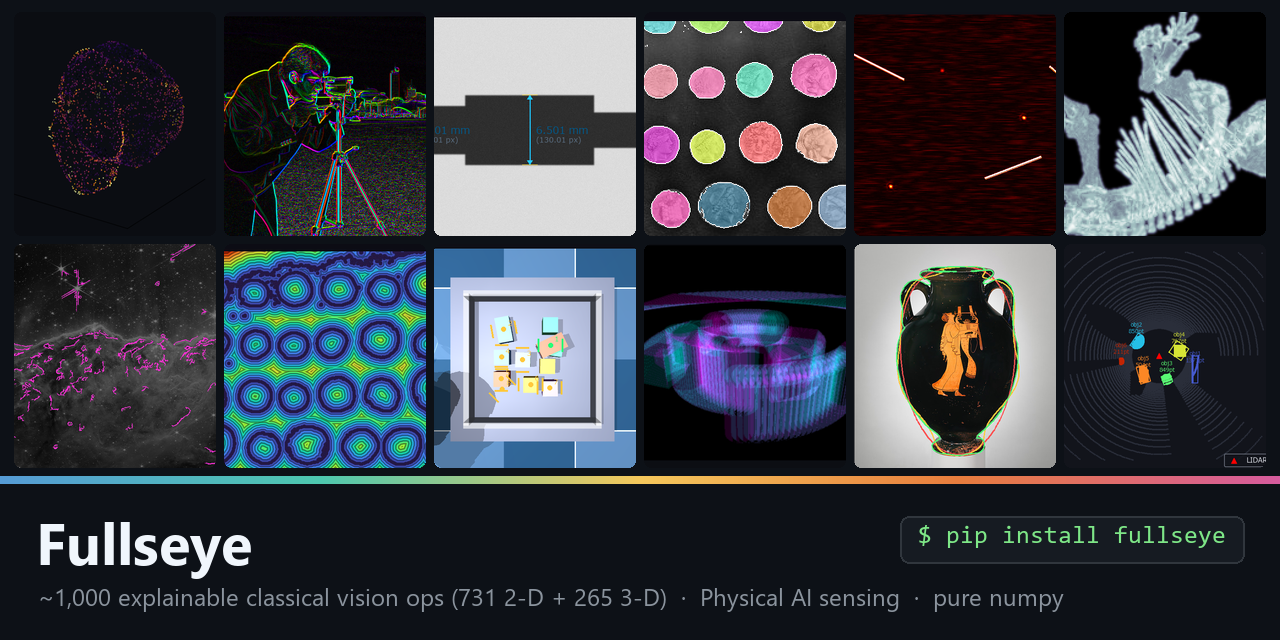
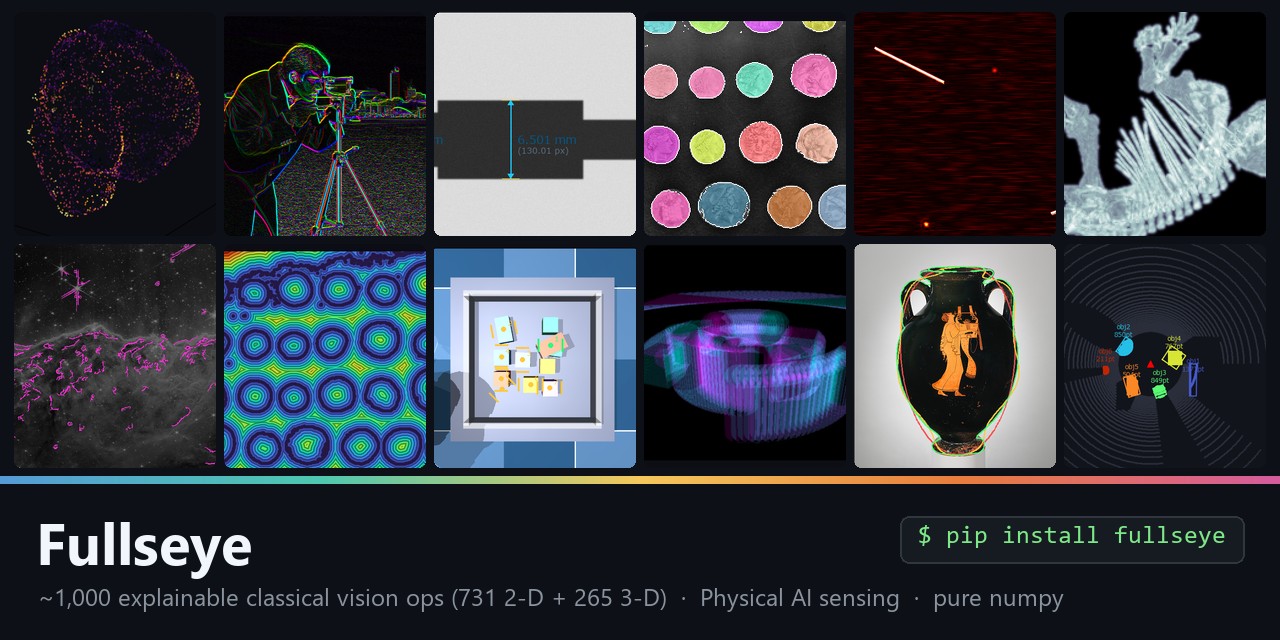
auto: gen_banner.py 編集前 (2026-08-30 17:51)

diff --git a/tools/gen_banner.py b/tools/gen_banner.py
@@ -87,7 +87,7 @@ TILES = [
     # Elliptic Fourier descriptor fit of an amphora silhouette
     ("academic_arch_amphora.png",  (0.670, 0.000, 1.000, 0.940)),
     # LiDAR bird's-eye view: ground removal + clustering + oriented boxes
-    ("phai_lidar_clusters.png",    (0.570, 0.080, 0.950, 0.920)),
+    ("phai_lidar_clusters.png",    (0.620, 0.120, 0.920, 0.830)),
 ]
 
 TITLE = "Fullseye"
